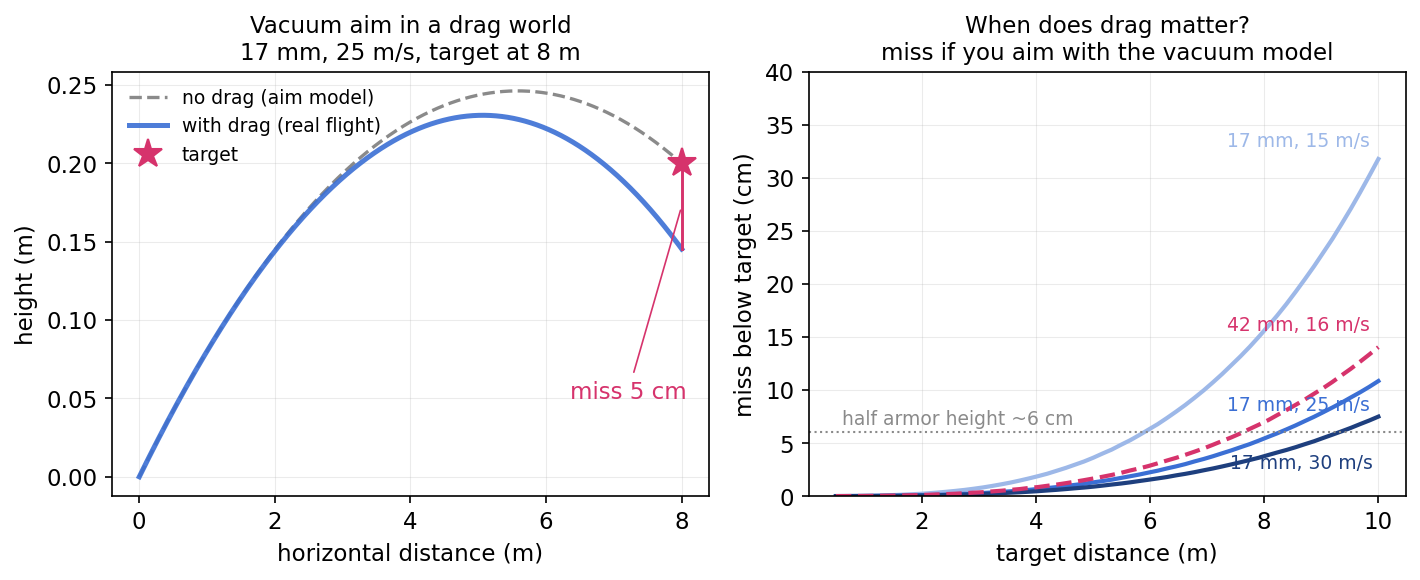
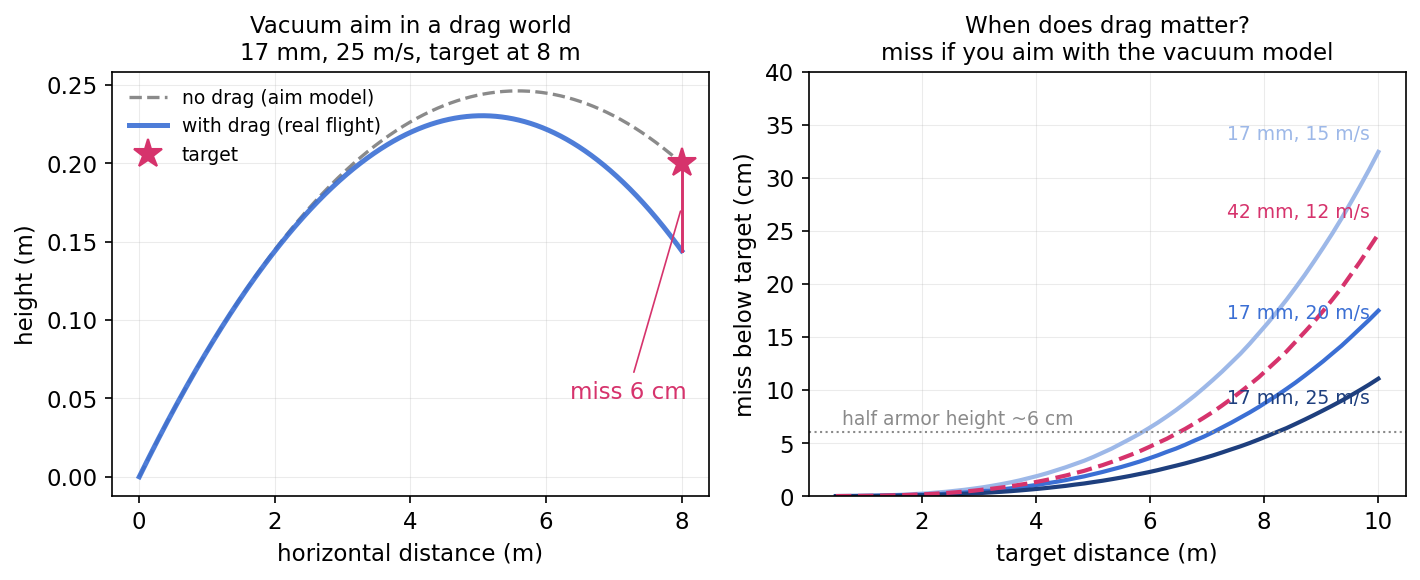
fix(practice): 按 2026 赛季弹丸参数重算弹道量级账
规则与器件参数更新：17 mm 3.2 g/16.8 mm、42 mm 44.5 g/42.5 mm，
空气密度取 25 ℃ 标压 1.169 kg/m^3，弹速上限 17 mm 25 m/s、
42 mm 12 m/s（英雄远程部署 16.5 m/s）。

连带重算并同步正文、表格、图注与小结：出膛减速度 16.8 → 11.9 m/s^2
（1.7g → 1.2g），8 m 存速 25.8 → 21.5 m/s，k42 0.010 → 0.0088，
牛顿法收敛序列，失效距离曲线档位改为 25/20/15 m/s 并由脚本实算标注。
两张图已用更新后的脚本重新生成。

diff --git a/examples/practice/ballistics_drag.py b/examples/practice/ballistics_drag.py
@@ -10,13 +10,13 @@ BLUE, MAGENTA, GRAY = "#3B6FD4", "#D6336C", "#8A8A8A"
 BLUE_L, BLUE_D = "#9DB8E8", "#1E3F7E"          # sequential blues: speed low -> high
 mpl.rcParams.update({"font.size": 11, "axes.linewidth": 0.8})
 
-g, rho, cd = 9.8, 1.225, 0.47
+g, rho, cd = 9.8, 1.169, 0.47   # rho: 25 C standard-pressure air (official 2026)
 
 def k_of(d_m, m_kg):
     return 0.5 * rho * cd * np.pi * (d_m / 2) ** 2 / m_kg
 
-K17 = k_of(0.017, 0.0035)      # 17 mm, 3.5 g  -> 0.0187 /m
-K42 = k_of(0.0425, 0.041)      # 42 mm, 41 g   -> 0.0100 /m
+K17 = k_of(0.0168, 0.0032)     # 17 mm, 3.2 g  -> 0.0190 /m
+K42 = k_of(0.0425, 0.0445)     # 42 mm, 44.5 g -> 0.0088 /m
 print(f"k17={K17:.5f} /m  k42={K42:.5f} /m  ratio={K42/K17:.3f}")
 
 def vacuum_pitch(v0, d, h):
@@ -75,21 +75,35 @@ def miss_curve(v0, k):
         out.append((fly(v0, p, 0.0, d)[-1, 1] - fly(v0, p, k, d)[-1, 1]) * 100)
     return np.array(out)
 
-for v, c in [(15, BLUE_L), (25, BLUE), (30, BLUE_D)]:
+for v, c in [(15, BLUE_L), (20, BLUE), (25, BLUE_D)]:
     y = miss_curve(v, K17)
     ax2.plot(x, y, color=c, lw=2.0)
-    if v != 30:
-        ax2.annotate(f"17 mm, {v} m/s", xy=(x[-1], y[-1]),
-                     xytext=(-4, 6 if v == 15 else -14),
-                     textcoords="offset points", ha="right", color=c, fontsize=9)
-ax2.text(9.9, 2.6, "17 mm, 30 m/s", ha="right", color=BLUE_D, fontsize=9)
-y42 = miss_curve(16, K42)
+    ax2.annotate(f"17 mm, {v} m/s", xy=(x[-1], y[-1]),
+                 xytext=(-4, {15: 6, 20: -4, 25: -12}[v]),
+                 textcoords="offset points", ha="right", color=c, fontsize=9)
+y42 = miss_curve(12, K42)
 ax2.plot(x, y42, color=MAGENTA, lw=2.0, ls="--")
-ax2.annotate("42 mm, 16 m/s", xy=(x[-1], y42[-1]), xytext=(-4, 8),
+ax2.annotate("42 mm, 12 m/s", xy=(x[-1], y42[-1]), xytext=(-4, 8),
              textcoords="offset points", ha="right", color=MAGENTA, fontsize=9)
 ax2.axhline(6, color=GRAY, lw=1.0, ls=":")
 ax2.annotate("half armor height ~6 cm", xy=(0.6, 6), xytext=(0, 4),
              textcoords="offset points", color=GRAY, fontsize=9)
+
+# failure distance = where the miss curve crosses the 6 cm half-armor line
+xf = np.linspace(0.5, 12, 400)
+def fail_dist(v0, k, thr=6.0):
+    m_prev, d_prev = None, None
+    for d in xf:
+        m = (fly(v0, vacuum_pitch(v0, d, 0.0), 0.0, d)[-1, 1]
+             - fly(v0, vacuum_pitch(v0, d, 0.0), k, d)[-1, 1]) * 100
+        if m_prev is not None and m_prev < thr <= m:
+            return d_prev + (thr - m_prev) * (d - d_prev) / (m - m_prev)
+        m_prev, d_prev = m, d
+    return None
+print("failure distance (miss = 6 cm):")
+for v in (25, 20, 15):
+    print(f"  17 mm {v} m/s -> {fail_dist(v, K17):.2f} m")
+print(f"  42 mm 12 m/s -> {fail_dist(12, K42):.2f} m")
 ax2.set_xlabel("target distance (m)")
 ax2.set_ylabel("miss below target (cm)")
 ax2.set_title("When does drag matter?\nmiss if you aim with the vacuum model", fontsize=11)

diff --git a/examples/practice/ballistics_iteration.py b/examples/practice/ballistics_iteration.py
@@ -11,7 +11,7 @@ import matplotlib as mpl
 BLUE, MAGENTA, GRAY = "#3B6FD4", "#D6336C", "#8A8A8A"
 mpl.rcParams.update({"font.size": 11, "axes.linewidth": 0.8})
 
-g, k, v0 = 9.8, 0.01867, 25.0        # 17 mm, 3.5 g, cd 0.47
+g, k, v0 = 9.8, 0.01903, 25.0        # 17 mm, 3.2 g, cd 0.47 (rho 1.169)
 
 # ---------- left: Newton vs bisection on f(T) = (1/k)ln(1+k vx0 T) - (d + dd T)
 d, dd = 8.0, 1.5                      # target 8 m away, receding at 1.5 m/s
